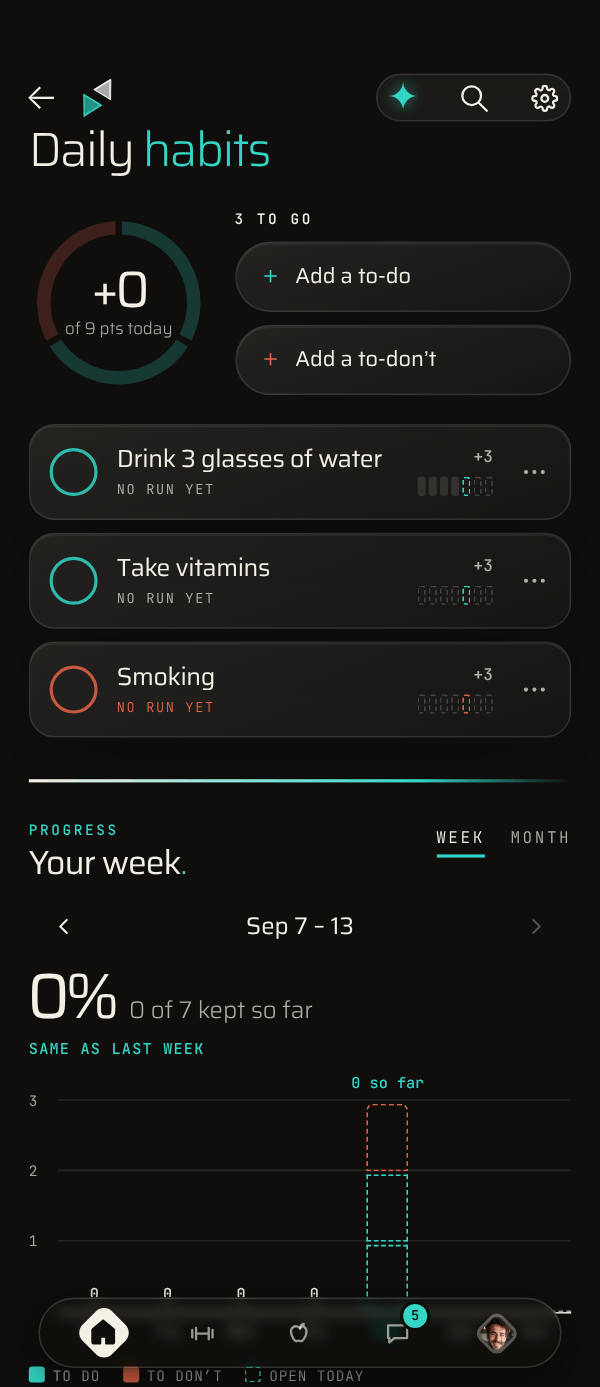
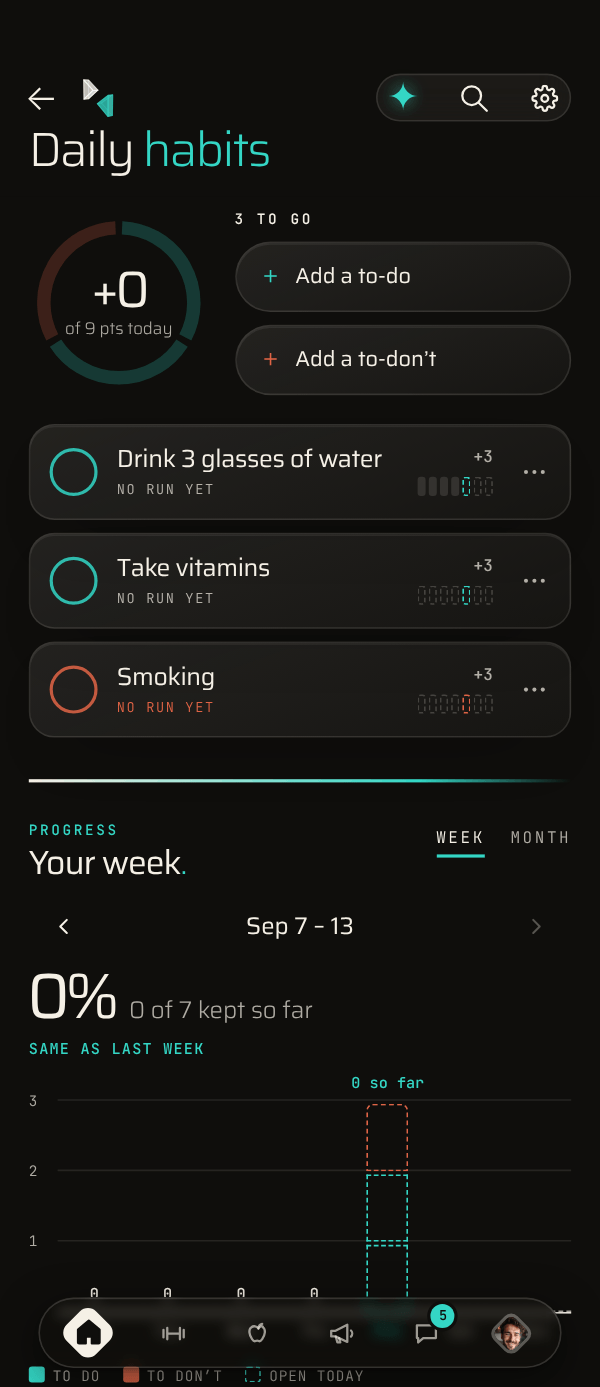
Website: every app capture re-shot with the Coaches tab in the bar; the homepage's Match stage shows the Coaches tab (#2702)
The app's tab bar gained Coaches on 2026-11-09, so Get App's eleven PNGs
(in place, ?v=20261111) and the homepage's seven JPEGs (-v6, -v5 deleted)
are re-shot from a build of main. Stage 02 Match is now the Coaches tab
(your team, Find a coach, Editors' picks, the list) with its line and alt
rewritten. Radio's alt follows its horizon field; the coach beat drops
"the trainer preview"; both pages' "signed-out preview" label, a mode the
app no longer has, now says "captured from the app with its sample data".
The moments rings stand: the content under each matched at a 0 px shift.

Claude-Session: https://claude.ai/code/session_01BhoNr2G1ntR3FKNsdYEE33

diff --git a/public/newdesign/GetApp.html b/public/newdesign/GetApp.html
@@ -4,7 +4,7 @@
 <meta charset="utf-8" />
 <meta name="viewport" content="width=device-width, initial-scale=1, viewport-fit=cover" />
 <title>One day on Shape — the app, hour by hour</title>
-<meta name="description" content="A member's day inside the Shape app, from the first check-in to the last set logged — eleven real screens, captured from the app's own signed-out preview." />
+<meta name="description" content="A member's day inside the Shape app, from the first check-in to the last set logged — eleven real screens, captured from the app with its example member." />
 <link rel="canonical" href="https://www.theshapecommunity.com/newdesign/GetApp.html">
 <link rel="preconnect" href="https://fonts.googleapis.com">
 <link rel="preconnect" href="https://fonts.gstatic.com" crossorigin>
@@ -109,8 +109,9 @@
   p  { font-size: 16px; line-height: 1.55; color: var(--ink2); margin: 0; }
 
   /* ⚠ THE LABEL IS WHAT MAKES THE FIGURES ON THIS PAGE ALLOWED. Every capture is
-     the app's signed-out preview — a demo persona with invented numbers — so each
-     one is labelled, the homepage's own convention. The hero carries the long form
+     the app with its example member (the sample data the signed-out preview showed
+     until an account became the way in, 2026-11-10) — a demo persona with invented
+     numbers — so each one is labelled, the homepage's own convention. The hero carries the long form
      once; each beat carries the short one beside its own screen. The house rule is
      not "never show it" but "never claim it unlabelled". */
   .exlabel { display: inline-flex; align-items: center; gap: 6px; font-family: var(--num); font-weight: 700; font-size: 10px; letter-spacing: .07em; text-transform: uppercase; font-variation-settings: 'ROND' 30; color: var(--ex); }
@@ -301,12 +302,12 @@
       <div>
         <div class="eb">The app &#183; one day, hour by hour</div>
         <h1>One day on Shape.</h1>
-        <p>From the first check-in to the last set logged, this is what a member&rsquo;s day looks like inside the app. Every screen below is the real app in its signed-out preview; nothing is a mock-up.</p>
+        <p>From the first check-in to the last set logged, this is what a member&rsquo;s day looks like inside the app. Every screen below is the real app with its example member; nothing is a mock-up.</p>
         <div class="cta-row">
           <a class="btn p" href="/newdesign/Landing.html">Get started &#8594;</a>
           <a class="btn g" href="#notify">Notify me when it ships</a>
         </div>
-        <div style="margin-top:18px"><span class="exlabel">Example member &#183; captured from the app&rsquo;s signed-out preview</span></div>
+        <div style="margin-top:18px"><span class="exlabel">Example member &#183; captured from the app with its sample data</span></div>
       </div>
     </section>
 
@@ -320,7 +321,7 @@
           <div class="num"><b>&#9632;</b> Lean by August &#183; 7.1 lb to go</div>
           <span class="exlabel">Example member</span>
         </div>
-        <div class="beat-ph"><div class="ph"><div class="ph-scr"><img src="/newdesign/getapp-home-v5.png?v=20261109" width="600" height="1387" alt="The app&rsquo;s Home screen: the Shape Score, Shape Radio, the goal drawn as a climb with 7.1 lb to go, the week strip, and the morning check-in with water" decoding="async"></div></div></div>
+        <div class="beat-ph"><div class="ph"><div class="ph-scr"><img src="/newdesign/getapp-home-v5.png?v=20261111" width="600" height="1387" alt="The app&rsquo;s Home screen: the Shape Score, Shape Radio, the goal drawn as a climb with 7.1 lb to go, the week strip, and the morning check-in with water" decoding="async"></div></div></div>
       </section>
       <section class="beat" style="--sky:rgba(255,180,84,.08)">
         <div class="beat-copy">
@@ -331,7 +332,7 @@
           <div class="num"><b>&#9632;</b> 532 kcal left &#183; protein 47g left</div>
           <span class="exlabel">Example member</span>
         </div>
-        <div class="beat-ph"><div class="ph"><div class="ph-scr"><img src="/newdesign/getapp-nutri-v3.png?v=20261109" width="600" height="1387" alt="The app&rsquo;s Eat screen: the fuel left today by calories and macro, then the next meal with Log it and Swap" loading="lazy" decoding="async"></div></div></div>
+        <div class="beat-ph"><div class="ph"><div class="ph-scr"><img src="/newdesign/getapp-nutri-v3.png?v=20261111" width="600" height="1387" alt="The app&rsquo;s Eat screen: the fuel left today by calories and macro, then the next meal with Log it and Swap" loading="lazy" decoding="async"></div></div></div>
       </section>
       <section class="beat" style="--sky:rgba(52,214,197,.10)">
         <div class="beat-copy">
@@ -342,7 +343,7 @@
           <div class="num"><b>&#9632;</b> 6 moves &#183; 54 min &#183; RPE 8</div>
           <span class="exlabel">Example member</span>
         </div>
-        <div class="beat-ph"><div class="ph"><div class="ph-scr"><img src="/newdesign/getapp-train-v3.png?v=20261109" width="600" height="1387" alt="The app&rsquo;s Train screen: the calories burned this week, today&rsquo;s session with its coach and a Start button, then the program move by move with sets and loads" loading="lazy" decoding="async"></div></div></div>
+        <div class="beat-ph"><div class="ph"><div class="ph-scr"><img src="/newdesign/getapp-train-v3.png?v=20261111" width="600" height="1387" alt="The app&rsquo;s Train screen: the calories burned this week, today&rsquo;s session with its coach and a Start button, then the program move by move with sets and loads" loading="lazy" decoding="async"></div></div></div>
       </section>
       <section class="beat" style="--sky:rgba(52,214,197,.08)">
         <div class="beat-copy">
@@ -353,7 +354,7 @@
           <div class="num"><b>&#9632;</b> 245 lb &#183; new PR</div>
           <span class="exlabel">Example member</span>
         </div>
-        <div class="beat-ph"><div class="ph"><div class="ph-scr"><img src="/newdesign/getapp-wall-v1.png?v=20261109" width="600" height="1387" alt="A deadlift PR opened from the app&rsquo;s Wall: 245 lb as the top set under the headline, the member&rsquo;s note, the coach&rsquo;s co-sign, then the session&rsquo;s summary and heart rate" loading="lazy" decoding="async"></div></div></div>
+        <div class="beat-ph"><div class="ph"><div class="ph-scr"><img src="/newdesign/getapp-wall-v1.png?v=20261111" width="600" height="1387" alt="A deadlift PR opened from the app&rsquo;s Wall: 245 lb as the top set under the headline, the member&rsquo;s note, the coach&rsquo;s co-sign, then the session&rsquo;s summary and heart rate" loading="lazy" decoding="async"></div></div></div>
       </section>
       <section class="beat" style="--sky:rgba(192,83,59,.10)">
         <div class="beat-copy">
@@ -362,9 +363,9 @@
           <h2>Your coach&rsquo;s page, run from the app.</h2>
           <p>Every trainer and nutritionist has a page on Shape and runs it from the app: the photo and gym, how they coach, their verified tier, rating and reviews. Only they see the Business card beneath it, with what they take home a month.</p>
           <div class="num"><b>&#9632;</b> Verified by Shape &#183; Elite &#183; 9.9/10 from 284 reviews</div>
-          <span class="exlabel">Example coach &#183; the trainer preview, sample numbers</span>
+          <span class="exlabel">Example coach &#183; sample numbers</span>
         </div>
-        <div class="beat-ph"><div class="ph"><div class="ph-scr"><img src="/newdesign/getapp-coach-v2.png?v=20261109" width="600" height="1387" alt="A coach&rsquo;s own page in the app&rsquo;s trainer preview: their photo over the gym, 9.9/10 from 284 reviews, their discipline, gym and city over their name, Verified by Shape and Elite, their line, the Elite tier at 3,060 points, and the private Business card with sample numbers" loading="lazy" decoding="async"></div></div></div>
+        <div class="beat-ph"><div class="ph"><div class="ph-scr"><img src="/newdesign/getapp-coach-v2.png?v=20261111" width="600" height="1387" alt="A coach&rsquo;s own page in the app, with sample numbers: their photo over the gym, 9.9/10 from 284 reviews, their discipline, gym and city over their name, Verified by Shape and Elite, their line, the Elite tier at 3,060 points, and the private Business card with sample numbers" loading="lazy" decoding="async"></div></div></div>
       </section>
       <section class="beat" style="--sky:rgba(238,243,240,.05)">
         <div class="beat-copy">
@@ -375,7 +376,7 @@
           <div class="num"><b>&#9632;</b> 89 items &#183; 8 in the cart &#183; 81 to get</div>
           <span class="exlabel">Example member</span>
         </div>
-        <div class="beat-ph"><div class="ph"><div class="ph-scr"><img src="/newdesign/getapp-grocery-v2.png?v=20261109" width="600" height="1387" alt="The app&rsquo;s grocery list: this week&rsquo;s plan with 81 to get and 8 of 89 in the cart, then shopped by aisle with the aisles stepped across the top and Produce open" loading="lazy" decoding="async"></div></div></div>
+        <div class="beat-ph"><div class="ph"><div class="ph-scr"><img src="/newdesign/getapp-grocery-v2.png?v=20261111" width="600" height="1387" alt="The app&rsquo;s grocery list: this week&rsquo;s plan with 81 to get and 8 of 89 in the cart, then shopped by aisle with the aisles stepped across the top and Produce open" loading="lazy" decoding="async"></div></div></div>
       </section>
       <section class="beat" style="--sky:rgba(52,214,197,.12)">
         <div class="beat-copy">
@@ -386,7 +387,7 @@
           <div class="num"><b>&#9632;</b> The station &#183; ad-free &#183; in your membership</div>
           <span class="exlabel">Example member</span>
         </div>
-        <div class="beat-ph"><div class="ph"><div class="ph-scr"><img src="/newdesign/getapp-radio-v3.png?v=20261109" width="600" height="1387" alt="The app&rsquo;s Radio page: the Signal Field drawing the station&rsquo;s spectrum over a field of dots, with Tempo Lift now playing and Tune in below" loading="lazy" decoding="async"></div></div></div>
+        <div class="beat-ph"><div class="ph"><div class="ph-scr"><img src="/newdesign/getapp-radio-v3.png?v=20261111" width="600" height="1387" alt="The app&rsquo;s Radio page: the Signal Field&rsquo;s floor running out to its horizon, the station on air and paused, Tempo Lift now playing and Tune in below" loading="lazy" decoding="async"></div></div></div>
       </section>
       <section class="beat" style="--sky:rgba(120,110,255,.10)">
         <div class="beat-copy">
@@ -397,7 +398,7 @@
           <div class="num"><b>&#9632;</b> 2,104 online now &#183; Priya on set 4 of 5</div>
           <span class="exlabel">Example member</span>
         </div>
-        <div class="beat-ph"><div class="ph"><div class="ph-scr"><img src="/newdesign/getapp-community-v2.png?v=20261109" width="600" height="1387" alt="The Wall in the app&rsquo;s Chat: Universal and Following, who is online along the top, the feed&rsquo;s filters, and a member live mid-workout with Send a boost" loading="lazy" decoding="async"></div></div></div>
+        <div class="beat-ph"><div class="ph"><div class="ph-scr"><img src="/newdesign/getapp-community-v2.png?v=20261111" width="600" height="1387" alt="The Wall in the app&rsquo;s Chat: Universal and Following, who is online along the top, the feed&rsquo;s filters, and a member live mid-workout with Send a boost" loading="lazy" decoding="async"></div></div></div>
       </section>
       <section class="beat" style="--sky:rgba(120,110,255,.07)">
         <div class="beat-copy">
@@ -408,7 +409,7 @@
           <div class="num"><b>&#9632;</b> 3 habits today &#183; +3 pts a tick</div>
           <span class="exlabel">Example member</span>
         </div>
-        <div class="beat-ph"><div class="ph"><div class="ph-scr"><img src="/newdesign/getapp-habits-v1.png?v=20261109" width="600" height="1387" alt="The app&rsquo;s Habits page: a ring of the day&rsquo;s points, the to-do and to-don&rsquo;t buttons, today&rsquo;s three habits at 3 points each, and the week&rsquo;s chart below" loading="lazy" decoding="async"></div></div></div>
+        <div class="beat-ph"><div class="ph"><div class="ph-scr"><img src="/newdesign/getapp-habits-v1.png?v=20261111" width="600" height="1387" alt="The app&rsquo;s Habits page: a ring of the day&rsquo;s points, the to-do and to-don&rsquo;t buttons, today&rsquo;s three habits at 3 points each, and the week&rsquo;s chart below" loading="lazy" decoding="async"></div></div></div>
       </section>
       <section class="beat" style="--sky:rgba(230,195,115,.10)">
         <div class="beat-copy">
@@ -419,7 +420,7 @@
           <div class="num"><b>&#9632;</b> 1,284 pts &#183; Tempo &#183; 716 from Form</div>
           <span class="exlabel">Example member</span>
         </div>
-        <div class="beat-ph"><div class="ph"><div class="ph-scr"><img src="/newdesign/getapp-score-v3.png?v=20261109" width="600" height="1387" alt="The app&rsquo;s Shape Score: 1,284 points, Tempo and climbing, 716 from Form, and the ladder from Raw to Legend" loading="lazy" decoding="async"></div></div></div>
+        <div class="beat-ph"><div class="ph"><div class="ph-scr"><img src="/newdesign/getapp-score-v3.png?v=20261111" width="600" height="1387" alt="The app&rsquo;s Shape Score: 1,284 points, Tempo and climbing, 716 from Form, and the ladder from Raw to Legend" loading="lazy" decoding="async"></div></div></div>
       </section>
       <section class="beat" style="--sky:rgba(230,195,115,.07)">
         <div class="beat-copy">
@@ -430,7 +431,7 @@
           <div class="num"><b>&#9632;</b> First half-marathon &#183; 74 days out</div>
           <span class="exlabel">Example member</span>
         </div>
-        <div class="beat-ph"><div class="ph"><div class="ph-scr"><img src="/newdesign/getapp-profile-v2.png?v=20261109" width="600" height="1387" alt="The app&rsquo;s member profile: the climb from Tempo to Form drawn over the cover photo at 43%, the counts, the tier, points and streak, the coach, and the Activity tab" loading="lazy" decoding="async"></div></div></div>
+        <div class="beat-ph"><div class="ph"><div class="ph-scr"><img src="/newdesign/getapp-profile-v2.png?v=20261111" width="600" height="1387" alt="The app&rsquo;s member profile: the climb from Tempo to Form drawn over the cover photo at 43%, the counts, the tier, points and streak, the coach, and the Activity tab" loading="lazy" decoding="async"></div></div></div>
       </section>
     </div>
 

diff --git a/public/newdesign/index.html b/public/newdesign/index.html
@@ -1099,22 +1099,22 @@
     <div class="mo-grid" id="mo-grid">
       <div class="mo on" data-tilt="4">
         <div class="eb">Eat · the menu</div><h3>The ledger ticks.</h3>
-        <div class="shot"><div class="scr"><img src="/newdesign/home-eat-v5.jpg" width="600" height="1387" loading="lazy" decoding="async" alt="The Eat screen: the fuel left today, 532 kcal, and what is left of each macro, then lunch up next with Log it and Swap"><span class="hl" style="top:40.81%;height:10.02%;left:4%;right:4%"></span></div></div>
+        <div class="shot"><div class="scr"><img src="/newdesign/home-eat-v6.jpg" width="600" height="1387" loading="lazy" decoding="async" alt="The Eat screen: the fuel left today, 532 kcal, and what is left of each macro, then lunch up next with Log it and Swap"><span class="hl" style="top:40.81%;height:10.02%;left:4%;right:4%"></span></div></div>
       </div>
       <div class="mo" data-tilt="4">
         <div class="eb">Eat · the shop</div><h3>The list writes itself.</h3>
-        <div class="shot"><div class="scr"><img src="/newdesign/home-grocery-v5.jpg" width="600" height="1387" loading="lazy" decoding="async" alt="The grocery list: this week's plan, 8 of 89 in the cart, shopped by aisle with the aisles stepped across the top and Produce open, 24 to get"><span class="hl" style="top:50.61%;height:10.31%"></span></div></div>
+        <div class="shot"><div class="scr"><img src="/newdesign/home-grocery-v6.jpg" width="600" height="1387" loading="lazy" decoding="async" alt="The grocery list: this week's plan, 8 of 89 in the cart, shopped by aisle with the aisles stepped across the top and Produce open, 24 to get"><span class="hl" style="top:50.61%;height:10.31%"></span></div></div>
       </div>
       <div class="mo" data-tilt="4">
         <div class="eb">Train · in the session</div><h3>A set logs.</h3>
-        <div class="shot"><div class="scr"><img src="/newdesign/home-session-v5.jpg" width="600" height="1387" loading="lazy" decoding="async" alt="The live session player: back squat, five sets of three, set one up with its load and reps"><span class="hl" style="top:36.7%;height:11.03%;left:5.67%;right:5.67%"></span></div></div>
+        <div class="shot"><div class="scr"><img src="/newdesign/home-session-v6.jpg" width="600" height="1387" loading="lazy" decoding="async" alt="The live session player: back squat, five sets of three, set one up with its load and reps"><span class="hl" style="top:36.7%;height:11.03%;left:5.67%;right:5.67%"></span></div></div>
       </div>
       <div class="mo" data-tilt="4">
         <div class="eb">Community · the Wall</div><h3>A PR lands.</h3>
-        <div class="shot"><div class="scr"><img src="/newdesign/home-feed-v5.jpg" width="600" height="1387" loading="lazy" decoding="async" alt="A deadlift PR from the Wall: 245 lb as the top set under the headline, the member's note, and the coach's co-sign below"><span class="hl" style="top:22.64%;height:21.7%"></span></div></div>
+        <div class="shot"><div class="scr"><img src="/newdesign/home-feed-v6.jpg" width="600" height="1387" loading="lazy" decoding="async" alt="A deadlift PR from the Wall: 245 lb as the top set under the headline, the member's note, and the coach's co-sign below"><span class="hl" style="top:22.64%;height:21.7%"></span></div></div>
       </div>
     </div>
-    <div style="margin-top:20px"><span class="exlabel">Example member · captured from the app's signed-out preview</span></div>
+    <div style="margin-top:20px"><span class="exlabel">Example member · captured from the app with its sample data</span></div>
   </div>
 </section>
 
@@ -1266,7 +1266,7 @@
       <div class="jph" id="jph">
         <div class="appph">
           <span class="isl"></span>
-          <img id="jph-img" src="/newdesign/home-profile-v5.jpg" width="600" height="1387" loading="lazy" decoding="async" alt="A member's living profile: the climb to the next tier drawn over their cover photo, then their tier, points and streak" style="--y:0%">
+          <img id="jph-img" src="/newdesign/home-profile-v6.jpg" width="600" height="1387" loading="lazy" decoding="async" alt="A member's living profile: the climb to the next tier drawn over their cover photo, then their tier, points and streak" style="--y:0%">
         </div>
         <div class="phcap"><b id="jph-t">Your living profile</b><span id="jph-c">The tier, the streak and the climb — drawn from day one on the terrain that is yours.</span></div>
       </div>
@@ -1324,7 +1324,7 @@
       </div>
       <div>
         <!-- ⚠ DELIBERATELY NOT THE SCORE CAPTURE. The journey rail's stage 04 already
-             carries home-score-v5.jpg under the SAME headline and the SAME sentence, so
+             carries home-score-v6.jpg under the SAME headline and the SAME sentence, so
              this phone was the second of two identical Shape Score snapshots on one page
              - the reader scrolled past the same frame twice and learned nothing the
              second time. The price section is the one place someone is deciding what $5
@@ -1337,7 +1337,7 @@
              Guarded by tests/homepage-climb.test.mjs. -->
         <div class="appph">
           <span class="isl"></span>
-          <img src="/newdesign/getapp-home-v5.png?v=20261109" width="600" height="1387" loading="lazy" decoding="async" alt="The app's Home screen: the Shape Score, Shape Radio, the goal drawn as a climb with 7.1 lb to go, this week's strip, and the morning check-in with water" style="--y:0%">
+          <img src="/newdesign/getapp-home-v5.png?v=20261111" width="600" height="1387" loading="lazy" decoding="async" alt="The app's Home screen: the Shape Score, Shape Radio, the goal drawn as a climb with 7.1 lb to go, this week's strip, and the morning check-in with water" style="--y:0%">
         </div>
         <div class="phcap"><b>Today, at a glance</b>Your score, the station, your goal, your week and the morning check-in.<span class="lbl-row"><span class="exlabel">Example member</span></span></div>
       </div>
@@ -1695,19 +1695,19 @@
      also what the MARKUP ships, so the reduced-motion and no-JS renders (which
      never reach this code) are already showing stage 1 rather than a blank frame. */
   var PH=[
-    ['/newdesign/home-profile-v5.jpg','Your living profile',
+    ['/newdesign/home-profile-v6.jpg','Your living profile',
      'The tier, the streak and the climb \u2014 drawn from day one on the terrain that is yours.',
      "A member's living profile: the climb to the next tier drawn over their cover photo, then their tier, points and streak"],
-    ['/newdesign/home-match-v5.jpg','Find a coach',
-     'Vetted trainers and RDs, browsed and messaged from inside the app before you commit.',
-     'The foot of the Eat screen: your nutritionist, their note, and the find-a-nutritionist row for vetted RDs'],
-    ['/newdesign/home-session-v5.jpg','The live session',
+    ['/newdesign/home-match-v6.jpg','Find a coach',
+     'A tab of its own: your team up top, then trainers and RDs with their rating, price and next open intro.',
+     "The app's Coaches tab: your team, a trainer and a nutritionist each with Message, then Find a coach with its search and filters, Editors' picks, and the coaches listed with rating, price, next open intro and Book intro"],
+    ['/newdesign/home-session-v6.jpg','The live session',
      'The plan lands written. You log the set and the app keeps the count.',
      'The live session player: back squat, five sets of three, set one up with its load and reps'],
-    ['/newdesign/home-score-v5.jpg','The Shape Score',
+    ['/newdesign/home-score-v6.jpg','The Shape Score',
      'One number over everything you log, with the ladder it climbs.',
      'The Shape Score page: the current standing, the tier, and the ladder from Raw to Legend'],
-    ['/newdesign/home-feed-v5.jpg','The Wall',
+    ['/newdesign/home-feed-v6.jpg','The Wall',
      'Your records land where your coach and your crew can see them.',
      "A deadlift PR from the Wall: 245 lb as the top set under the headline, the member's note, and the coach's co-sign below"]
   ];

diff --git a/src/lib/warroom.ts b/src/lib/warroom.ts
@@ -658,6 +658,21 @@ function buildChecklist(config: ConfigGroup[], mobileBuild = false): ChecklistSe
       ],
     },
     {
+      section: 'Website: every app capture re-shot with the Coaches tab in the bar; the homepage\'s Match stage shows the Coaches tab (#2702). No migration',
+      items: [
+        { label: 'Owner, 2026-11-11, with a screenshot of the homepage\'s Match stage: "this screenshot on website needs to show the marketplace page on app", then "update the screenshots of all the ones as well since we added a new tab in nav bar, which is the marketplace on, so make sure the app home/index page and app page have updated screenshots"', status: 'done' },
+        { label: '#2702 Get App\'s eleven PNGs replaced in place at ?v=20261111 (256-colour palettes through libimagequant, 40 to 216 KB): Home, Eat, Train, the Wall\'s PR, the coach\'s page, Grocery, Radio, the Wall, Habits, Score, the profile. Every member screen with a bar shows its six tabs (Coaches between Eat and Chat); the coach\'s page shows the trainer app\'s own bar', status: 'done' },
+        { label: '#2702 The homepage\'s seven JPEGs as -v6 (progressive, quality 88), -v5 deleted. Stage 02 Match is the Coaches tab (your team, Find a coach, Editors\' picks, the list), not the foot of Eat, with its line and alt rewritten; the price phone takes Get App\'s new key', status: 'done' },
+        { label: '#2702 Copy that follows the screens: Radio\'s alt (the Signal Field draws its horizon floor and no towers while the station is paused); the coach beat\'s label and alt drop "the trainer preview"; both pages\' "captured from the app\'s signed-out preview" (gone since #2675) now say "captured from the app with its sample data". Every figure was read off its capture and stands', status: 'done' },
+        { label: '#2702 The four moments rings stand: only the bar changed, and the content under each ring matched the -v5 capture at a 0 px shift; the pixel check passes on the -v6 JPEGs', status: 'done' },
+        { label: 'How they were taken: the signed-out preview the old method used was removed on 2026-11-10 (#2675), so a scratch build of main (2238a55) admits a signed-out session at the account gate (bsAccountGate) and publishes a paying member\'s flags (bsPaidFlags: canChat, paid, nora), never shipped. The client app then shows its example member, as the preview did. 375x867 at 1.6, is-native-app, clock Fri 2026-09-11 09:30 New York, from http://localhost (a secure context, as production is: the session player needs crypto.randomUUID); /api/me { user: null }, /api/radio/now-playing the mock\'s Tempo Lift (simulated), other routes 401, Supabase REST reads answered empty; unsplash and the sample coach\'s CDN media fetched as production loads them', status: 'done' },
+        { label: 'Radio still says "Sign in to listen" and "Sign in to react & comment", as the -v3 capture did: listening checks the account, not the paid flags, and the capture session has no account', status: 'pending' },
+        { label: 'The Coaches tab\'s example data gives Dr. Maya Patel and Jordan Chen one photo under Your team (a local file) and another in Editors\' picks and the list (unsplash). It is the app\'s own sample data, and it shows in the homepage\'s Match capture (home-match-v6.jpg): one photo each in the app, then a re-shoot', status: 'pending' },
+        { label: 'The capture script and its two-line gate patch live in a scratch folder, not the repo, as before. Since the preview is gone, a committed capture mode (a build flag that admits the example member) would make the next re-shoot one command', status: 'pending' },
+        { label: 'OWNER: on the live site, the homepage (stage 02 Match shows the Coaches tab; the moments and the price phone show six tabs) and the App page (eleven screens, six tabs)', status: 'manual' },
+      ],
+    },
+    {
       section: 'Coach dashboard: every page\'s description can be hidden; the Hours & rules sheet laid out as cards with the week spread out (#2700). No migration',
       items: [
         { label: 'Owner, 2026-11-11, with a screenshot of the Hours & rules sheet: "make this look cleaner, this pop up page. Make the hours section in top a little more spread out. Just improve layout on this popout", then, with the Schedule\'s description: "make these descriptions on each dashboard page hideable so the schedule sits higher on page as well as other dashboard sections"', status: 'done' },
@@ -714,7 +729,7 @@ function buildChecklist(config: ConfigGroup[], mobileBuild = false): ChecklistSe
         { label: '#2698 coachProfileWeb.jsx, 1000px and wider: every camp is a tab (Base, Book, Programs or Meal plans … Summit) in a row under the ← Coaches bar, above the stage, so it shows on landing; it pins under the site header (or the dashboard\'s bars), lights the camp in view, and a click scrolls to that camp. The row wraps on a narrow dashboard and never scrolls sideways; what pins under it (the spine\'s marks, the studio\'s filter row, a camp or the storefront brought into view) sits below its measured height. A private profile (one camp) has no tabs', status: 'done' },
         { label: '#2698 On a phone the camp bar moved to the same place, under the bar and above the stage, and reads "Sections" until a camp comes up under it (it named Base or Book while the stage was in view); its grid is unchanged. Nothing is lit on either while the stage is in view', status: 'done' },
         { label: 'Checked in Chromium on the sample trainer and nutritionist at 1440, 1280, 1024 (dashboard), 768, 390 and 375: tabs or bar under the bar on landing, pinned at the header once scrolled, a picked camp landing just under them, no sideways scroll, no page errors', status: 'done' },
-        { label: 'The homepage\'s and Get App\'s app captures still show the five-tab bar (Coaches is a tab since 2026-11-09), and the Match stage shows the foot of Eat, not the Coaches tab: re-shot in the next PR', status: 'pending' },
+        { label: 'The homepage\'s and Get App\'s app captures still show the five-tab bar (Coaches is a tab since 2026-11-09), and the Match stage shows the foot of Eat, not the Coaches tab: re-shot in #2702', status: 'done' },
         { label: 'OWNER: open a coach\'s public page on the live site, on a computer (the tabs under ← Coaches, a click lands on its section) and on a phone (Sections, then a camp)', status: 'manual' },
       ],
     },
